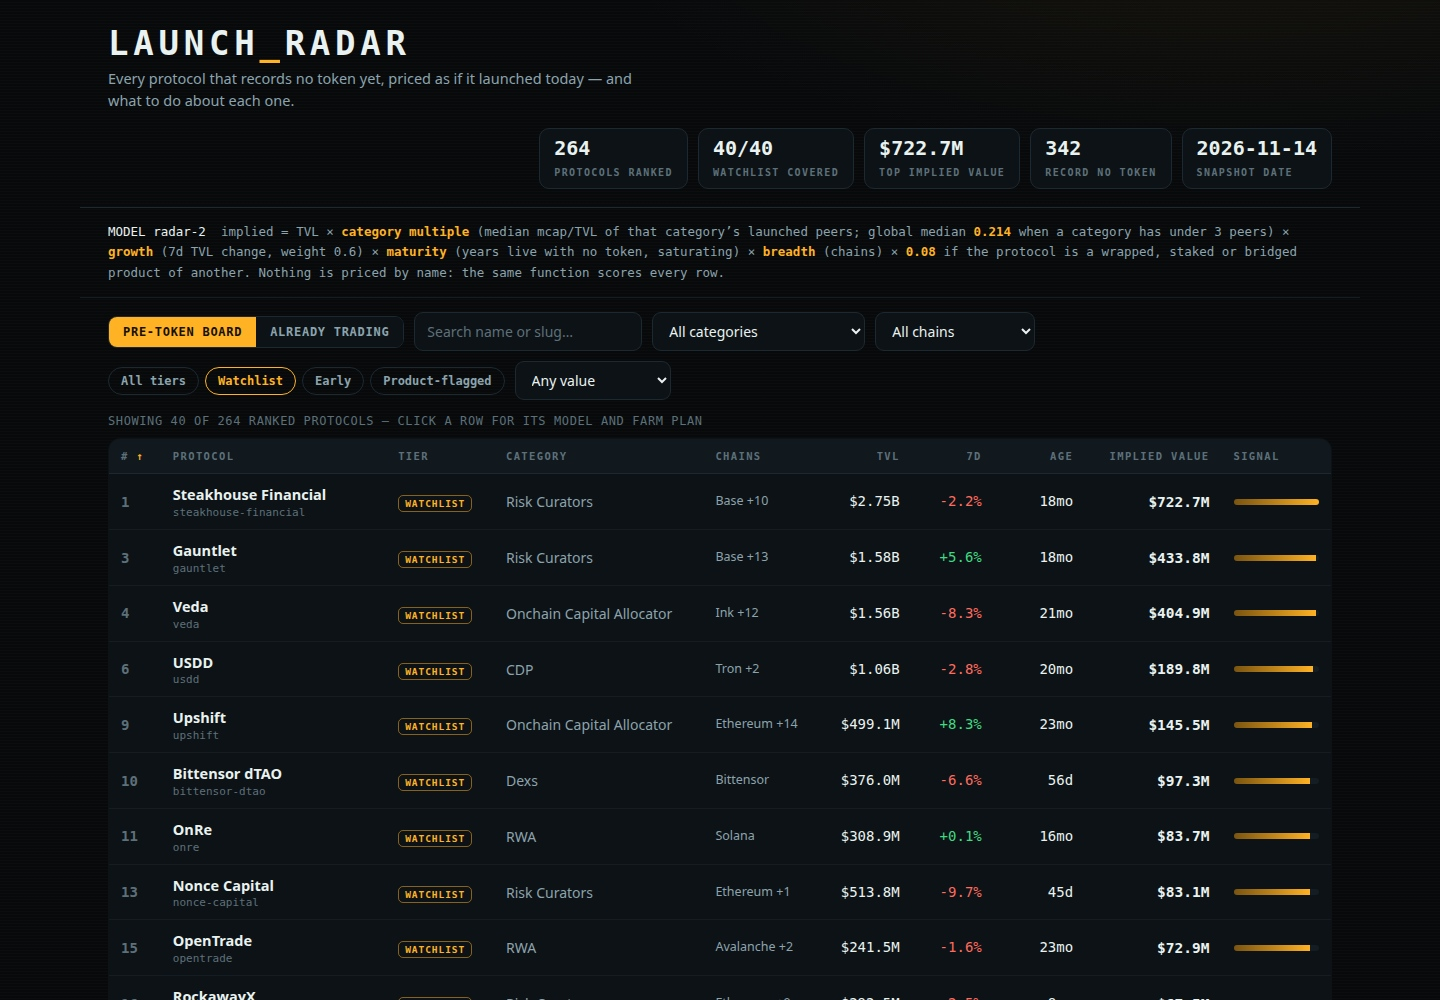
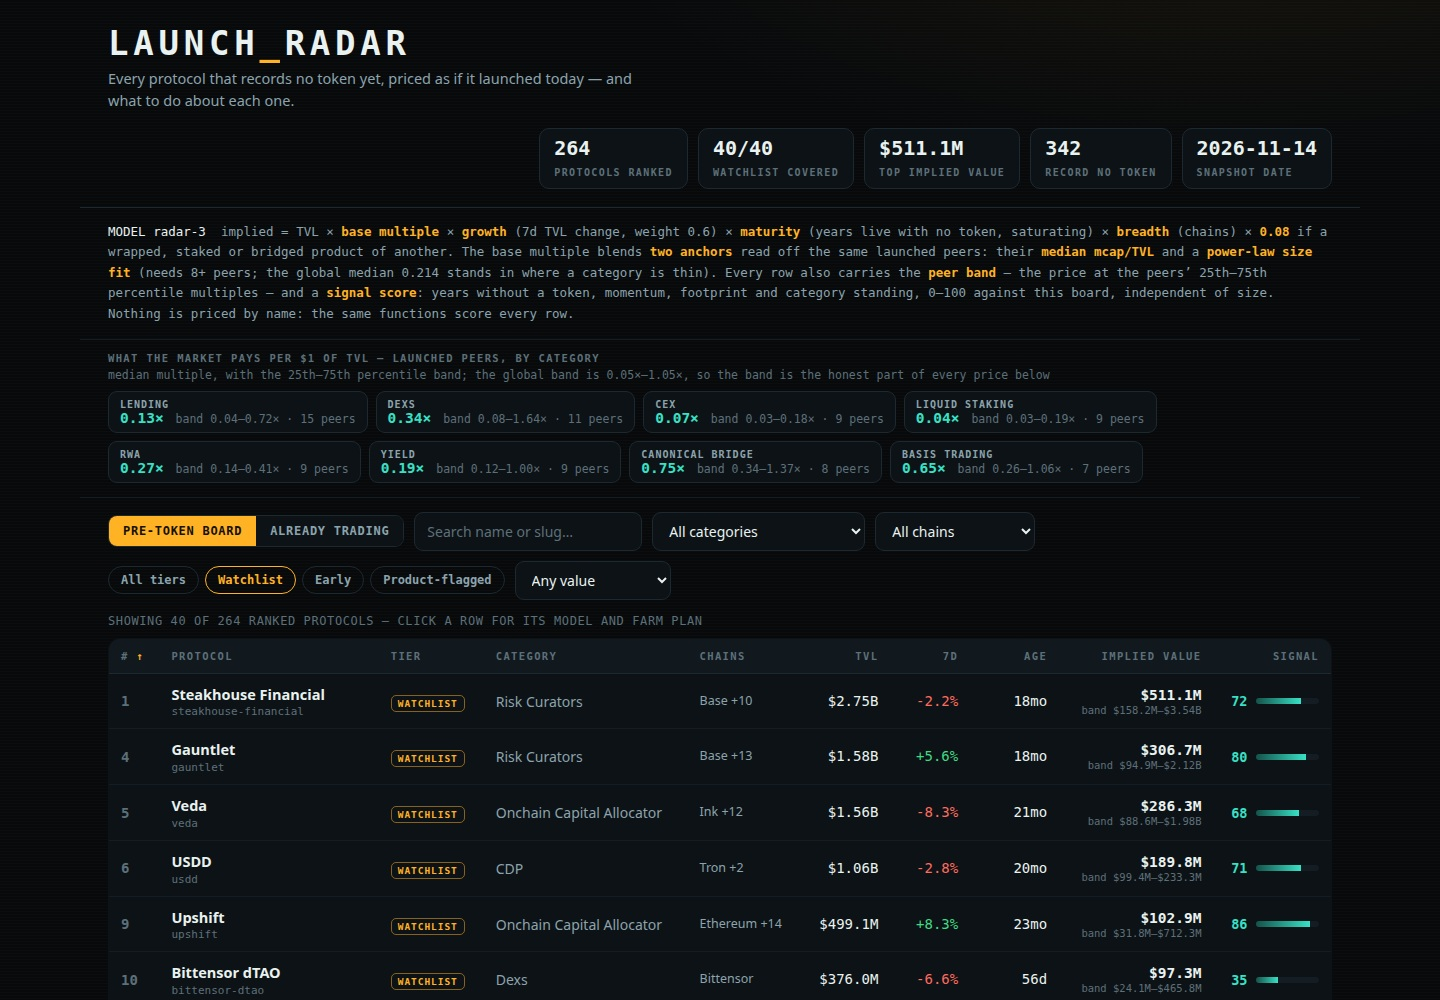
Dashboard: peer-evidence strip, price bands, signal scores, plan budgets
The board gains a 'what the market pays' strip (median multiple and band
per category, from the snapshot's launched peers), a peer band under every
implied value, and the signal score as a number with its bar. The detail
drawer shows the peer evidence behind each price (peer count and scope,
quartile multiples, the size fit at that TVL, anchor agreement), the full
pricing decomposition, and the farm plan led by its cost rollup chips.
Screenshots recaptured from the real dashboard; the detail view is posed
in a portrait frame so evidence, pricing and plan fit one shot.

diff --git a/dashboard/app.js b/dashboard/app.js
@@ -1,7 +1,8 @@
 // Launch Radar's page. It reads window.RADAR (data.js, written beside dashboard/ by main.ts) and
-// renders the pre-token board, the Already trading set, and a detail drawer per protocol with the
-// model's own arithmetic and the protocol's farm plan. No fetch, no framework, no network: every
-// byte it shows arrived in data.js, and every implied value it prints is the one main.ts computed.
+// renders the pre-token board, the category evidence strip, the Already trading set, and a detail
+// drawer per protocol with the model's own arithmetic — both pricing anchors, the peer band and
+// the farm plan with its costs rolled up. No fetch, no framework, no network: every byte it shows
+// arrived in data.js, and every implied value it prints is the one main.ts computed.
 (function () {
   'use strict';
 
@@ -34,6 +35,7 @@
     if (days >= 60) return Math.round(days / 30.4) + 'mo';
     return days + 'd';
   }
+  function fmtMult(n) { return n === null || n === undefined ? 'n/a' : n.toFixed(3) + '\u00D7'; }
   function esc(s) { return String(s === null || s === undefined ? '' : s); }
 
   /* — header stats — */
@@ -53,11 +55,35 @@
 
   /* — the model, stated on the page it produced — */
   $('modelbar').innerHTML =
-    '<span class="fx">MODEL ' + esc(D.model_version) + '</span> &nbsp;implied = TVL &times; <b>category multiple</b> ' +
-    '(median mcap/TVL of that category&rsquo;s launched peers; global median <b>' + D.global_multiple.toFixed(3) + '</b> when a category has under ' +
-    M.peer_min + ' peers) &times; <b>growth</b> (7d TVL change, weight ' + M.growth_weight + ') &times; <b>maturity</b> ' +
-    '(years live with no token, saturating) &times; <b>breadth</b> (chains) &times; <b>' + M.product_multiple + '</b> if the protocol is a ' +
-    'wrapped, staked or bridged product of another. Nothing is priced by name: the same function scores every row.';
+    '<span class="fx">MODEL ' + esc(D.model_version) + '</span> &nbsp;implied = TVL &times; <b>base multiple</b> &times; <b>growth</b> ' +
+    '(7d TVL change, weight ' + M.growth_weight + ') &times; <b>maturity</b> (years live with no token, saturating) &times; <b>breadth</b> ' +
+    '(chains) &times; <b>' + M.product_multiple + '</b> if a wrapped, staked or bridged product of another. The base multiple blends ' +
+    '<b>two anchors</b> read off the same launched peers: their <b>median mcap/TVL</b> and a <b>power-law size fit</b> ' +
+    '(needs ' + M.fit_min_peers + '+ peers; the global median ' + D.global_multiple.toFixed(3) + ' stands in where a category is thin). ' +
+    'Every row also carries the <b>peer band</b> \u2014 the price at the peers\u2019 25th\u201375th percentile multiples \u2014 and a ' +
+    '<b>signal score</b>: years without a token, momentum, footprint and category standing, 0\u2013100 against this board, independent of size. ' +
+    'Nothing is priced by name: the same functions score every row.';
+
+  /* — the evidence strip: what the market pays per $1 of TVL, by category — */
+  (function renderEvidence() {
+    var wrap = $('evidence');
+    var head = el('div', 'evhead');
+    head.appendChild(el('span', 'evtitle', 'WHAT THE MARKET PAYS PER $1 OF TVL \u2014 LAUNCHED PEERS, BY CATEGORY'));
+    head.appendChild(el('span', 'evnote', 'median multiple, with the 25th\u201375th percentile band; the global band is ' +
+      D.global_p25.toFixed(2) + '\u00D7\u2013' + D.global_p75.toFixed(2) + '\u00D7, so the band is the honest part of every price below'));
+    wrap.appendChild(head);
+    var strip = el('div', 'evstrip');
+    D.categories.slice(0, 8).forEach(function (c) {
+      var chip = el('div', 'evchip');
+      chip.appendChild(el('div', 'evcat', c.category));
+      var line = el('div', 'evline');
+      line.appendChild(el('b', null, c.median.toFixed(2) + '\u00D7'));
+      line.appendChild(el('span', null, ' band ' + c.p25.toFixed(2) + '\u2013' + c.p75.toFixed(2) + '\u00D7 \u00B7 ' + c.peers + ' peers'));
+      chip.appendChild(line);
+      strip.appendChild(chip);
+    });
+    wrap.appendChild(strip);
+  })();
 
   /* — filters — */
   function fillSelect(sel, values, label) {
@@ -89,7 +115,7 @@
     { k: 'change', t: '7d', num: true },
     { k: 'age', t: 'Age', num: true, cls: 'hidemb' },
     { k: 'implied', t: 'Implied value', num: true },
-    { k: 'signal', t: 'Signal', num: false },
+    { k: 'signal', t: 'Signal', num: true },
   ];
   function sortVal(r, k) {
     if (k === 'rank') return r.rank;
@@ -101,6 +127,7 @@
     if (k === 'change') return r.change_7d === null ? -1e9 : r.change_7d;
     if (k === 'age') return r.age_days === null ? -1 : r.age_days;
     if (k === 'implied') return r.implied_value_usd;
+    if (k === 'signal') return r.signal_score;
     return r.rank;
   }
   function visibleRows() {
@@ -128,10 +155,10 @@
     var thead = el('thead'), htr = el('tr');
     COLS.forEach(function (c) {
       var th = el('th', (c.num ? 'num ' : '') + (c.cls || ''), c.t);
-      if (c.k !== 'signal' && c.k !== 'tier') {
+      if (c.k !== 'tier') {
         th.classList.add('sortable');
         if (state.sort === c.k) {
-          var d = el('span', 'dir', state.dir === 1 ? ' ↑' : ' ↓');
+          var d = el('span', 'dir', state.dir === 1 ? ' \u2191' : ' \u2193');
           th.appendChild(d);
         }
         th.addEventListener('click', function () {
@@ -157,24 +184,30 @@
       tierTd.appendChild(el('span', 'badge ' + r.tier, r.tier === 'watchlist' ? 'Watchlist' : r.tier === 'early' ? 'Early' : 'Product'));
       tr.appendChild(tierTd);
       tr.appendChild(el('td', 'cat hidemb', r.category || 'Uncategorised'));
-      tr.appendChild(el('td', 'chains hidemb', r.chains.length ? r.chains[0] + (r.chains.length > 1 ? ' +' + (r.chains.length - 1) : '') : '—'));
+      tr.appendChild(el('td', 'chains hidemb', r.chains.length ? r.chains[0] + (r.chains.length > 1 ? ' +' + (r.chains.length - 1) : '') : '\u2014'));
       tr.appendChild(el('td', 'num', fmtUsd(r.tvl_usd)));
       var ch = el('td', 'num ' + (r.change_7d === null ? '' : r.change_7d >= 0 ? 'pos' : 'neg'), fmtPct(r.change_7d));
       tr.appendChild(ch);
       tr.appendChild(el('td', 'num hidemb', fmtAge(r.age_days)));
-      tr.appendChild(el('td', 'num implied', fmtUsd(r.implied_value_usd)));
+      var imp = el('td', 'num');
+      imp.appendChild(el('div', 'implied', fmtUsd(r.implied_value_usd)));
+      imp.appendChild(el('div', 'band', 'band ' + fmtUsd(r.implied_low_usd) + '\u2013' + fmtUsd(r.implied_high_usd)));
+      tr.appendChild(imp);
       var sig = el('td', 'sig');
+      var sline = el('div', 'sigline');
+      sline.appendChild(el('b', 'signum', String(r.signal_score)));
       var bar = el('div', 'sigbar');
       var fill = el('i');
-      fill.style.width = r.signal_pct + '%';
+      fill.style.width = r.signal_score + '%';
       bar.appendChild(fill);
-      sig.appendChild(bar);
+      sline.appendChild(bar);
+      sig.appendChild(sline);
       tr.appendChild(sig);
       tr.addEventListener('click', function () { openDetail(r.slug); });
       tb.appendChild(tr);
     });
     t.appendChild(tb);
-    $('count').textContent = 'SHOWING ' + rows.length + ' OF ' + D.board_size + ' RANKED PROTOCOLS — CLICK A ROW FOR ITS MODEL AND FARM PLAN';
+    $('count').textContent = 'SHOWING ' + rows.length + ' OF ' + D.board_size + ' RANKED PROTOCOLS \u2014 CLICK A ROW FOR ITS MODEL AND FARM PLAN';
     $('empty').classList.toggle('hidden', rows.length > 0);
   }
 
@@ -195,7 +228,7 @@
       nameTd.appendChild(el('div', 'pname', r.name));
       nameTd.appendChild(el('div', 'pslug', r.slug));
       tr.appendChild(nameTd);
-      tr.appendChild(el('td', 'cat', r.symbol || '—'));
+      tr.appendChild(el('td', 'cat', r.symbol || '\u2014'));
       tr.appendChild(el('td', 'cat', r.category || 'Uncategorised'));
       tr.appendChild(el('td', 'num', fmtUsd(r.tvl_usd)));
       tr.appendChild(el('td', 'num implied', fmtUsd(r.mcap_usd)));
@@ -204,7 +237,7 @@
       tb.appendChild(tr);
     });
     t.appendChild(tb);
-    $('count').textContent = 'ALREADY TRADING — THE MARKET\u2019S OWN VALUES, NEVER THE MODEL\u2019S. THESE ' + D.live_size + ' ARE THE LARGEST OF THE LAUNCHED SET THE BOARD IS PRICED FROM.';
+    $('count').textContent = 'ALREADY TRADING \u2014 THE MARKET\u2019S OWN VALUES, NEVER THE MODEL\u2019S. THESE ' + D.live_size + ' ARE THE LARGEST OF THE LAUNCHED SET THE BOARD IS PRICED FROM.';
   }
 
   /* — detail drawer — */
@@ -221,21 +254,21 @@
     state.selected = slug;
     var d = $('drawer');
     d.textContent = '';
-    var close = el('button', 'close', 'CLOSE ✕');
+    var close = el('button', 'close', 'CLOSE \u2715');
     close.addEventListener('click', closeDetail);
     d.appendChild(close);
     d.appendChild(el('h2', null, r.name));
-    d.appendChild(el('div', 'dslug', r.slug + ' — rank #' + r.rank + ' of ' + D.board_size));
+    d.appendChild(el('div', 'dslug', r.slug + ' \u2014 rank #' + r.rank + ' of ' + D.board_size + ' \u00B7 signal ' + r.signal_score + '/100'));
     var badge = el('span', 'badge ' + r.tier, r.tier === 'watchlist' ? 'On the house watchlist' : r.tier === 'early' ? 'Early find, below the floor' : 'Product of another protocol');
     d.appendChild(badge);
     var grid = el('div', 'dgrid');
     [
       ['Implied launch value', fmtUsd(r.implied_value_usd)],
+      ['Peer band (P25\u2013P75)', fmtUsd(r.implied_low_usd) + ' \u2013 ' + fmtUsd(r.implied_high_usd)],
       ['TVL', fmtUsd(r.tvl_usd)],
       ['TVL change, 7d', fmtPct(r.change_7d)],
       ['Tracked for', fmtAge(r.age_days) + (r.listed_at ? ' (since ' + r.listed_at + ')' : '')],
-      ['Category', r.category || 'Uncategorised'],
-      ['Chains', r.chains.length ? r.chains.join(', ') : 'none recorded'],
+      ['Chains', r.chains.length ? r.chains.slice(0, 5).join(', ') + (r.chains.length > 5 ? ' +' + (r.chains.length - 5) + ' more' : '') : 'none recorded'],
     ].forEach(function (c) {
       var cell = el('div', 'dcell');
       cell.appendChild(el('span', null, c[0]));
@@ -243,23 +276,43 @@
       grid.appendChild(cell);
     });
     d.appendChild(grid);
-    d.appendChild(el('h3', null, 'How the model prices it'));
     var m = r.model;
-    d.appendChild(mrow('TVL, the base', fmtUsd(r.tvl_usd)));
+    d.appendChild(el('h3', null, 'The peer evidence'));
     d.appendChild(mrow(m.peer_scope === 'category'
-      ? 'Category multiple — median mcap/TVL of ' + m.peer_count + ' launched ' + (r.category || '') + ' peers'
-      : 'Category multiple — ' + (r.category || 'this category') + ' has too few launched peers, so the global median across ' + m.peer_count + ' launched protocols', '× ' + m.category_multiple.toFixed(3)));
-    d.appendChild(mrow('Growth — 7d change of ' + fmtPct(r.change_7d) + ', weight ' + M.growth_weight, '× ' + m.growth_multiplier.toFixed(3)));
-    d.appendChild(mrow('Maturity — ' + fmtAge(r.age_days) + ' live with no token', '× ' + m.maturity_multiplier.toFixed(3)));
-    d.appendChild(mrow('Breadth — ' + r.chains.length + ' chain' + (r.chains.length === 1 ? '' : 's'), '× ' + m.breadth_multiplier.toFixed(3)));
-    if (m.product_multiplier !== 1) d.appendChild(mrow('Product discount — a spin-off\u2019s launch, not its own', '× ' + m.product_multiplier.toFixed(2)));
+      ? 'Launched peers in ' + (r.category || 'this category')
+      : (r.category || 'This category') + ' has too few launched peers \u2014 priced on the global set', String(m.peer_count) + ' peers'));
+    d.appendChild(mrow('What they pay per $1 of TVL \u2014 25th / median / 75th percentile',
+      m.peer_p25.toFixed(2) + '\u00D7 / ' + m.median_multiple.toFixed(2) + '\u00D7 / ' + m.peer_p75.toFixed(2) + '\u00D7'));
+    if (m.fit_multiple !== null) {
+      d.appendChild(mrow('Size fit at this TVL \u2014 the power law\u2019s own price', fmtMult(m.fit_multiple)));
+      d.appendChild(mrow('Anchor agreement \u2014 the two anchors land within',
+        '\u00D7' + m.anchor_spread.toFixed(2) + (m.anchor_spread <= 1.5 ? ' \u00B7 close' : ' \u00B7 wide')));
+    } else {
+      d.appendChild(mrow('Size fit', 'does not reach this row \u2014 too few peers, or a size outside the range they span; the median anchor prices it alone'));
+    }
+    d.appendChild(el('h3', null, 'How the model prices it'));
+    d.appendChild(mrow('TVL, the base', fmtUsd(r.tvl_usd)));
+    d.appendChild(mrow('Base multiple \u2014 the two anchors blended', '\u00D7 ' + m.anchor_multiple.toFixed(3)));
+    d.appendChild(mrow('Growth \u2014 7d change of ' + fmtPct(r.change_7d) + ', weight ' + M.growth_weight, '\u00D7 ' + m.growth_multiplier.toFixed(3)));
+    d.appendChild(mrow('Maturity \u2014 ' + fmtAge(r.age_days) + ' live with no token', '\u00D7 ' + m.maturity_multiplier.toFixed(3)));
+    d.appendChild(mrow('Breadth \u2014 ' + r.chains.length + ' chain' + (r.chains.length === 1 ? '' : 's'), '\u00D7 ' + m.breadth_multiplier.toFixed(3)));
+    if (m.product_multiplier !== 1) d.appendChild(mrow('Product discount \u2014 a spin-off\u2019s launch, not its own', '\u00D7 ' + m.product_multiplier.toFixed(2)));
     d.appendChild(mrow('Implied value', fmtUsd(r.implied_value_usd)));
+    d.appendChild(mrow('At the band\u2019s edges', fmtUsd(r.implied_low_usd) + ' \u2013 ' + fmtUsd(r.implied_high_usd)));
     d.appendChild(el('h3', null, 'The farm plan'));
+    var chips = el('div', 'planchips');
+    [
+      'Upfront \u2248 ' + fmtUsd(r.plan.upfront_usd),
+      'Weekly \u2248 ' + (r.plan.weekly_usd < 1 ? 'under $1' : fmtUsd(r.plan.weekly_usd)) + ' gas',
+      '\u2248 ' + r.plan.minutes_per_week + ' min a week',
+      'Hold \u2265 ' + r.plan.hold_days + ' days',
+    ].forEach(function (t) { chips.appendChild(el('span', 'planchip', t)); });
+    d.appendChild(chips);
     var ol = el('ol', 'plan');
     r.farm_steps.forEach(function (s) { ol.appendChild(el('li', null, s)); });
     d.appendChild(ol);
     d.appendChild(el('p', 'note',
-      'As of ' + D.as_of + ', ' + r.name + ' records no token in the snapshot this board is built from — that is a statement about the record, not a promise about the future. The implied value is this board\u2019s own claim: what a launch would be worth if the protocol\u2019s record stayed as it is. It is not a prediction that a token will be issued.'));
+      'As of ' + D.as_of + ', ' + r.name + ' records no token in the snapshot this board is built from \u2014 that is a statement about the record, not a promise about the future. The implied value is this board\u2019s own claim: what a launch would be worth if the protocol\u2019s record stayed as it is. It is not a prediction that a token will be issued.'));
     d.classList.remove('hidden');
     $('scrim').classList.remove('hidden');
   }
@@ -299,9 +352,14 @@
     '<div class="cols">' +
     '<div><h4>The board</h4><p><b>' + D.board_size + ' protocols ranked</b> out of ' + D.protocol_size + ' in the snapshot: the whole ' +
     D.watchlist_size + '-protocol watchlist, ' + D.early_size + ' early finds below its $' + (D.floor_usd / 1e6) + 'M floor, and ' + D.product_size +
-    ' product-flagged rows priced as spin-offs. Click any row for its model and its farm plan.</p></div>' +
-    '<div><h4>Set aside, never ranked</h4><p>' + (D.protocol_size - D.pretoken_size) + ' protocols whose token already trades — the largest ' +
-    D.live_size + ' are under <b>Already trading</b> at market value, and they are the peer set the category multiples are measured from. A further ' +
+    ' product-flagged rows priced as spin-offs. Click any row for its peer evidence, its model and its farm plan.</p></div>' +
+    '<div><h4>How a price is made</h4><p>Each category\u2019s launched peers give two anchors: the <b>median</b> of what the market pays per $1 of TVL, ' +
+    'and a <b>power-law fit</b> of market cap on TVL, because size bends the multiple. The median is the robust anchor: the fit adjusts it by at most ' +
+    '\u00D71.41 either way, and only inside the size range its peers actually span. The result is adjusted for the week\u2019s growth, the years run ' +
+    'without a token and the chain footprint. The band beside each price is the same arithmetic at the peers\u2019 25th and 75th percentiles: ' +
+    'where the anchors disagree, the band is the honest answer.</p></div>' +
+    '<div><h4>Set aside, never ranked</h4><p>' + (D.protocol_size - D.pretoken_size) + ' protocols whose token already trades \u2014 the largest ' +
+    D.live_size + ' are under <b>Already trading</b> at market value, and they are the peer set the anchors are measured from. A further ' +
     D.excluded_size + ' records that show no token are exchanges, official chain bridges, exchange products or versioned pools: not launches.</p></div>' +
     '<div><h4>Read it honestly</h4><p>The snapshot is DefiLlama\u2019s record, fetched once and frozen (' + esc(D.source) + '). A protocol here ' +
     '<b>records no token</b>; that is not proof it has none. Implied values are this board\u2019s claims, not predictions, and a farm plan is a starting ' +

diff --git a/dashboard/app.css b/dashboard/app.css
@@ -62,6 +62,19 @@ button { cursor: pointer; }
 .modelbar b { color: var(--amber); font-weight: 700; }
 .modelbar .fx { color: var(--ink); }
 
+/* — evidence strip — */
+.evidence { max-width: 1280px; margin: 0 auto; padding: 12px 28px 14px; border-bottom: 1px solid var(--line-soft); }
+.evhead { display: flex; flex-wrap: wrap; gap: 4px 18px; align-items: baseline; margin-bottom: 9px; }
+.evtitle { font: 700 10.5px var(--mono); letter-spacing: 0.13em; color: var(--faint); }
+.evnote { font: 11.5px var(--mono); color: var(--faint); }
+.evstrip { display: flex; gap: 8px; flex-wrap: wrap; }
+.evchip {
+  background: var(--panel); border: 1px solid var(--line); border-radius: 9px; padding: 7px 11px 6px;
+}
+.evcat { font: 700 10px var(--mono); letter-spacing: 0.1em; text-transform: uppercase; color: var(--muted); }
+.evline { font: 11.5px var(--mono); color: var(--faint); white-space: nowrap; }
+.evline b { font-size: 14.5px; color: var(--teal); margin-right: 5px; }
+
 /* — controls — */
 .controls {
   max-width: 1280px; margin: 0 auto; padding: 14px 28px 6px;
@@ -120,9 +133,12 @@ table.board { width: 100%; border-collapse: collapse; background: var(--panel); 
 .chains { color: var(--muted); font-size: 12.5px; }
 .pos { color: var(--pos); } .neg { color: var(--neg); }
 .implied { font: 700 14.5px var(--mono); color: var(--ink); white-space: nowrap; }
-.sig { width: 110px; }
-.sigbar { height: 6px; border-radius: 3px; background: var(--line-soft); overflow: hidden; }
-.sigbar i { display: block; height: 100%; background: linear-gradient(90deg, #7a5410, var(--amber)); }
+.band { font: 10.5px var(--mono); color: var(--faint); white-space: nowrap; margin-top: 1px; }
+.sig { width: 118px; }
+.sigline { display: flex; align-items: center; gap: 8px; justify-content: flex-end; }
+.signum { font: 700 13.5px var(--mono); color: var(--teal); min-width: 22px; text-align: right; }
+.sigbar { flex: 1; height: 6px; border-radius: 3px; background: var(--line-soft); overflow: hidden; }
+.sigbar i { display: block; height: 100%; background: linear-gradient(90deg, #14524a, var(--teal)); }
 .empty { max-width: 1280px; margin: 0 auto; padding: 22px 28px; color: var(--muted); font-family: var(--mono); font-size: 13px; }
 
 /* — detail drawer — */
@@ -138,14 +154,19 @@ table.board { width: 100%; border-collapse: collapse; background: var(--panel); 
 }
 .drawer h2 { margin: 0 0 2px; font-size: 24px; letter-spacing: -0.01em; }
 .drawer .dslug { font: 12px var(--mono); color: var(--faint); margin-bottom: 14px; }
-.dgrid { display: grid; grid-template-columns: 1fr 1fr; gap: 9px; margin: 14px 0; }
+.dgrid { display: grid; grid-template-columns: 1fr 1fr; gap: 9px; margin: 12px 0 4px; }
 .dcell { background: var(--panel-2); border: 1px solid var(--line-soft); border-radius: 10px; padding: 9px 12px; }
 .dcell span { display: block; font: 600 9.5px var(--mono); letter-spacing: 0.13em; text-transform: uppercase; color: var(--faint); }
 .dcell b { font: 700 16.5px var(--mono); }
-.drawer h3 { font: 700 11px var(--mono); letter-spacing: 0.15em; text-transform: uppercase; color: var(--amber); margin: 20px 0 9px; }
-.mrow { display: flex; justify-content: space-between; gap: 14px; padding: 6px 0; border-bottom: 1px dashed var(--line-soft); font-size: 13px; }
+.drawer h3 { font: 700 11px var(--mono); letter-spacing: 0.15em; text-transform: uppercase; color: var(--amber); margin: 15px 0 8px; }
+.mrow { display: flex; justify-content: space-between; gap: 14px; padding: 5px 0; border-bottom: 1px dashed var(--line-soft); font-size: 13px; }
 .mrow .why { color: var(--muted); }
 .mrow b { font-family: var(--mono); white-space: nowrap; }
+.planchips { display: flex; flex-wrap: wrap; gap: 6px; margin-bottom: 13px; }
+.planchip {
+  font: 600 11.5px var(--mono); color: var(--amber); border: 1px solid rgba(255, 178, 36, 0.4);
+  border-radius: 999px; padding: 4px 10px; white-space: nowrap;
+}
 ol.plan { margin: 0; padding-left: 21px; }
 ol.plan li { margin-bottom: 11px; color: #cfe0da; font-size: 13.5px; }
 ol.plan li::marker { color: var(--amber); font-family: var(--mono); font-weight: 700; }
@@ -162,5 +183,5 @@ ol.plan li::marker { color: var(--amber); font-family: var(--mono); font-weight:
 .foot p { margin: 0; }
 @media (max-width: 760px) {
   .board .hidemb { display: none; }
-  .topbar, .modelbar, .controls, .count, .tablewrap, .foot { padding-left: 16px; padding-right: 16px; }
+  .topbar, .modelbar, .evidence, .controls, .count, .tablewrap, .foot { padding-left: 16px; padding-right: 16px; }
 }

diff --git a/dashboard/index.html b/dashboard/index.html
@@ -17,6 +17,8 @@
 
 <section class="modelbar" id="modelbar"></section>
 
+<section class="evidence" id="evidence" aria-label="What the market pays, by category"></section>
+
 <nav class="controls" id="controls">
   <div class="tabs" role="tablist">
     <button class="tab on" id="tab-board" type="button">Pre-token board</button>

diff --git a/README.md b/README.md
@@ -4,7 +4,7 @@
 [![rank](https://make.fun/badge/token-radar-01/vayne01-hub/token-radar-01/rank.svg)](https://make.fun/bounty/token-radar-01/leaderboard?utm_source=github&utm_medium=readme&utm_campaign=token-radar-01)
 [![reward](https://make.fun/badge/token-radar-01/vayne01-hub/token-radar-01/reward.svg)](https://make.fun/bounty/token-radar-01?utm_source=github&utm_medium=readme&utm_campaign=token-radar-01)
 
-A Node 22 program that reads a sealed DefiLlama snapshot (758 protocols at $5M+ TVL) and ranks 264 tokenless and pre-token protocols by implied launch value. The model is priced from the snapshot's own figures — category-median pricing from its launched peers, TVL, 7-day momentum and tokenless age — never from hardcoded names, with tokenized and pre-token protocols kept separate. Every row carries a concrete farm plan of 3–12 steps with costs and time, and the entry ships a static, fully offline dashboard (sortable, filterable, per-protocol detail view) with screenshots of the real board.
+A Node 22 program that reads a sealed DefiLlama snapshot (758 protocols at $5M+ TVL) and ranks 264 tokenless and pre-token protocols by implied launch value. The radar-3 model prices every row from the snapshot's own figures with two independent anchors measured on the same launched peers — each category's median market-cap/TVL and a power-law size fit of market cap on TVL — and carries the peers' 25th–75th percentile band beside every price, plus a size-independent signal score (years without a token, momentum, footprint, category standing). Nothing is priced from hardcoded names, and tokenized and pre-token protocols are kept separate. Every row carries a concrete farm plan of 3–12 steps with costs and time, rolled up into an upfront/weekly budget, and the entry ships a static, fully offline dashboard (sortable, filterable, per-protocol detail view with the peer evidence and the model's arithmetic) with screenshots of the real board.
 
 ## Run it
 
